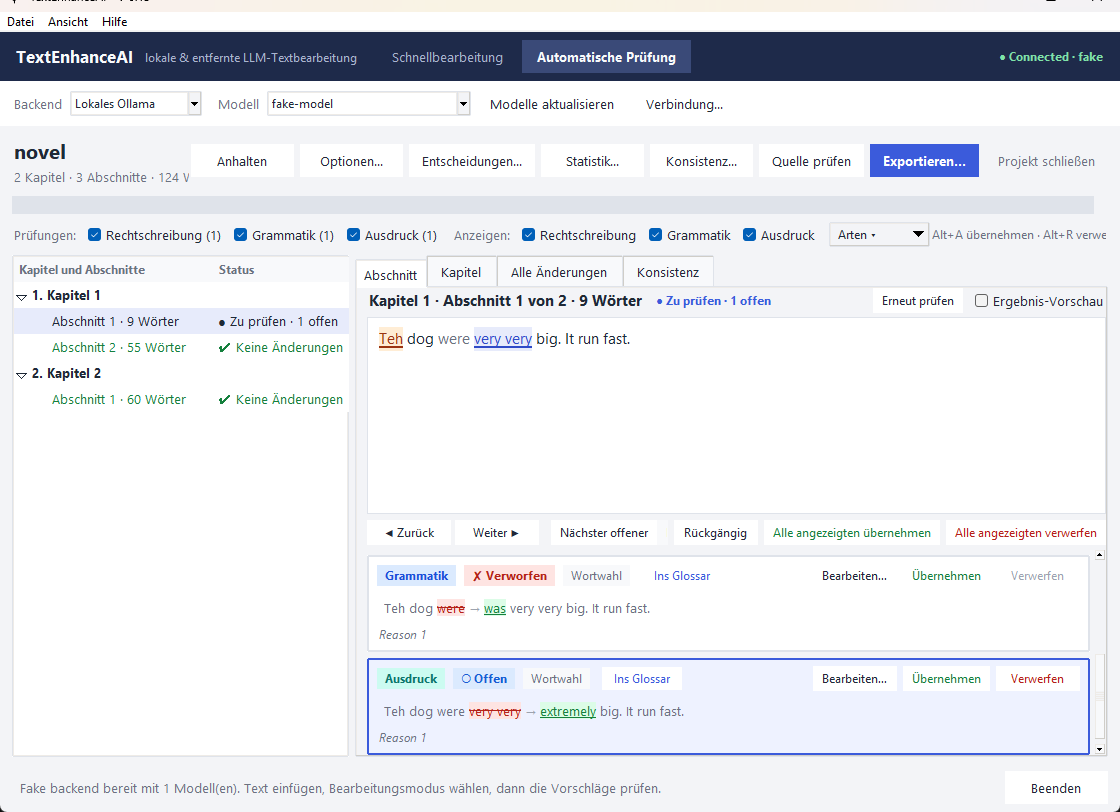
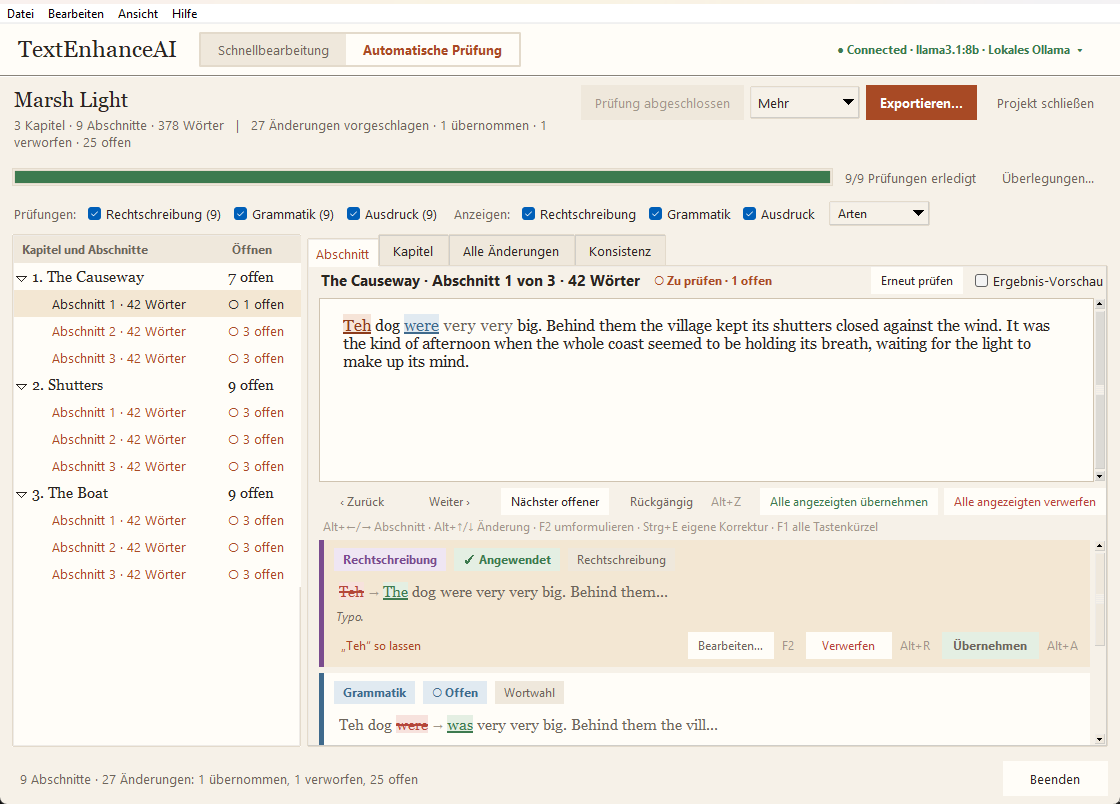
Update the screenshots and docs for the new look
New screenshots of the review dashboard, the quick-edit review and the
German dashboard; the README walkthroughs follow the renamed buttons and
menus (mode menu, More menu, Preferences, Keep as written, the toasts and
the undo/redo stack), and AGENTS.md notes the new ui modules, the serif
text rule, the glyph rule, toasts, row tooltips and the shortcut list.

diff --git a/README.md b/README.md
@@ -6,9 +6,13 @@ The application offers two complementary environments:
 1. **Quick Editor:** An interactive desktop editor for refining passages sentence-by-sentence across 11 editing modes with word-level diffing and scratchpad logging.
 2. **Automatic Manuscript Review:** A full-length book and manuscript proofreading workbench that splits entire manuscripts into chapters and segments, runs multi-pass AI evaluations in the background, detects chapter-spanning inconsistencies, generates deep manuscript analytics, and gives the author granular control over every proposed change.
 
-![TextEnhanceAI review screen](https://github.com/wenrolland/TextEnhanceAI/blob/main/TextEnhanceAI-v0.13.png)
+![TextEnhanceAI review screen](TextEnhanceAI-review.png)
 
-The same review screen with the German interface (`TEAI_LANG=de` or **Connection... → Language**):
+The quick editor shows one suggestion at a time as a single paragraph, removed words struck and added words underlined:
+
+![TextEnhanceAI quick edit](TextEnhanceAI-quick-edit.png)
+
+The same review screen with the German interface (`TEAI_LANG=de` or **Edit → Preferences → Language**):
 
 ![TextEnhanceAI review screen in German](TextEnhanceAI-de.png)
 
@@ -24,8 +28,8 @@ The same review screen with the German interface (`TEAI_LANG=de` or **Connection
   - *Three separate requests (more thorough):* Evaluates each check independently across the segment (~3 edit requests per segment). Automatically falls back to separate requests if structured JSON fails or cannot be anchored.
 - **Smart Explanation Pipeline:** Rule-based canned explanations handle trivial changes (punctuation, whitespace, capitalization, 1-letter typos) instantly without extra model calls. Remaining changes are batched across up to 6 segments per prompt to minimize token overhead.
 - **Author's Style Guide:** Standing instructions (e.g., *British spelling*, *keep dialect inside dialogue*, *never touch quotations*) are injected into every check and explanation prompt, taking precedence over default rules.
-- **Protected Glossary & Wildcard Stems:** Protect character names, invented vocabulary, and domain jargon (one per line, with trailing wildcard `*` e.g. `hyper*` to protect all inflections). Proposed changes touching protected terms are automatically suppressed before review. Change cards feature a one-click **Add to glossary** button.
-- **Model-Side Hallucination Guard:** Heuristic detection flags changes that look like invented content (excessive text growth, ungrounded vocabulary not present in the segment, or full rewrites during strict spelling/grammar checks). Flagged changes receive an amber *⚠ check this* warning badge with hover explanations, tree glyph indicators, and a one-click **Reject flagged** button.
+- **Protected Glossary & Wildcard Stems:** Protect character names, invented vocabulary, and domain jargon (one per line, with trailing wildcard `*` e.g. `hyper*` to protect all inflections). Proposed changes touching protected terms are automatically suppressed before review. Every change card has a **Keep “…” as written** link that rejects the change and protects the term from then on.
+- **Model-Side Hallucination Guard:** Heuristic detection flags changes that look like invented content (excessive text growth, ungrounded vocabulary not present in the segment, or full rewrites during strict spelling/grammar checks). Flagged changes receive an ochre *◆ check this* badge with hover explanations, a diamond in the chapter tree, and a one-click **Reject flagged** button.
 - **Multi-Tab Review Experience:**
   - **Segment View:** Highlights proposed changes with check-specific colors; presents card-by-card diffs, kind tags, model explanations, and quick decision buttons.
   - **Chapter Reading View:** Continuous full-chapter reading view with live inline annotations (green underline for applied changes, amber background for pending, strikethrough for rejected, amber wave for flagged). Clicking any marked span jumps straight to its card.
@@ -66,7 +70,7 @@ The same review screen with the German interface (`TEAI_LANG=de` or **Connection
 - **Zero Third-Party Cloud Dependencies:** Run completely offline using local models via Ollama or over an encrypted private tunnel to your own GPU server. No manuscript text is ever logged on intermediate relays.
 - **Remote GPU Support (Relay + vLLM):** Connect to a powerful remote GPU server (e.g. hosting a 27B+ parameter model) through an outbound-only reverse relay—no public ports or inbound firewall holes required.
 - **Prefix Caching Optimization:** Review prompts place manuscript text before instructions (`text_first=True`) so vLLM and caching-enabled backends maximize KV-cache reuse across checks of the same segment.
-- **Multi-Language UI (i18n):** The complete user interface is available in English and German (`locales/de.json`), following the system language or the choice in the Connection dialog; model prompts stay English and explanation language remains a per-project option.
+- **Multi-Language UI (i18n):** The complete user interface is available in English and German (`locales/de.json`), following the system language or the choice under **Edit → Preferences**; model prompts stay English and explanation language remains a per-project option.
 - **Accessibility:** Every state is shown as a glyph plus a word, never by colour alone (tree rows, change cards, the chapter view's optional `[+]`/`[~]`/`[−]` markers, the quick review's removed/added labels). The View menu (and `Ctrl+=` / `Ctrl+-` / `Ctrl+0`) scales every font from 80 % to 200 %, and **High contrast** switches to a black-on-white palette with thick borders and a yellow selection; both are remembered. Cards, links and dialogs are reachable with Tab; the selected card carries a visible focus border.
 - **Live Model Thinking:** **View → Model thinking...** (`Ctrl+Shift+T`, also the **Thinking...** button next to *Cancel* and in the review's progress row) opens a window that shows the reasoning a thinking model streams while it works — one entry per request (quick edit steps, every check of every segment, explanation batches, the consistency check), newest first, with its state (waiting / thinking / answering / done / failed / cancelled) and character counts. It works with vLLM's reasoning parser (`reasoning_content`), Ollama's `thinking` field (Ollama 0.9+) and models that write `<think>` blocks inline; the edited text never contains the reasoning. Nothing is written to disk.
 - **Persistent State:** Projects are saved in `<manuscript>.teai/project.json` after every decision, ensuring zero progress loss on application restart.
@@ -115,21 +119,21 @@ Switch to **Automatic review** in the top header to proofread a full book, paper
 
 ```
 ┌──────────────────────────────────────────────────────────────────────────────────┐
-│  [Editor]  [Automatic review]                         Backend: Local (Ollama) ▾  │
+│ TextEnhanceAI  [Quick edit | Automatic review]       ● Connected · llama3.1:8b ▾ │
 ├──────────────────────────────────────────────────────────────────────────────────┤
-│ Project: MyNovel.txt                                [Options...] [Consistency...]│
+│ MyNovel                             [Pause] [More ▾] [Export...] [Close project] │
 ├───────────────────────┬──────────────────────────────────────────────────────────┤
 │ Chapters & Segments   │ [Segment]  [Chapter]  [All changes]  [Consistency]       │
-│ ├─ Chapter 1 (✓)      │ ──────────────────────────────────────────────────────── │
-│ │  ├─ Segment 1 (✓)   │ Text with highlighted changes...                         │
-│ │  └─ Segment 2 (●)   │ ──────────────────────────────────────────────────────── │
-│ └─ Chapter 2 (○)      │ Change Cards: Before / After Diff + Model Explanation    │
-│                       │ [Accept (Alt+A)] [Reject (Alt+R)] [Edit (F2)]            │
+│ ├─ The Causeway  done │ ──────────────────────────────────────────────────────── │
+│ │  ├─ Segment 1 ● done│ Text with highlighted changes...                         │
+│ │  └─ Segment 2 ○ 3   │ ──────────────────────────────────────────────────────── │
+│ └─ Shutters    9 open │ Change cards: diff, reason, Keep as written              │
+│                       │              [Edit… F2]  [Reject Alt+R]  [Accept Alt+A]  │
 └───────────────────────┴──────────────────────────────────────────────────────────┘
 ```
 
 ### 1. Open a Manuscript
-Choose any `.txt` file. The start screen previews chapter detection:
+Choose any `.txt`, `.md`, `.docx` or `.odt` file. The start screen previews chapter detection; splitting, evaluation and the standing instructions sit behind **Advanced options**:
 - Recognizes Markdown headers (`#`, `##`), `Chapter N` / `Kapitel N` headings, numbered titles, ALL-CAPS titles, and scene dividers (`* * *`).
 - Texts lacking headings can be split evenly by size, or you can ask the model to generate a chapter outline based on content.
 
@@ -151,7 +155,7 @@ Press **Start review**. The evaluation runs in the background across configurabl
   - Press `Alt+A` to accept, `Alt+R` to reject, or `F2` to reword inline.
   - Select text and press `Ctrl+E` to add an author correction.
   - Use **Kinds ▾** to filter visible change kinds or bulk accept/reject by kind across the project.
-  - Use **Reject flagged ⚠** to discard suspicious additions caught by the hallucination guard.
+  - Use **Reject flagged ◆** (shown when a segment has flagged changes) to discard suspicious additions caught by the hallucination guard.
 - **Chapter Tab:**
   - Read through the full chapter with color-coded live annotations (green underline = applied, amber background = pending, strikethrough = rejected, amber highlight = flagged).
   - Click any highlighted passage to jump directly to its segment and change card.
@@ -161,14 +165,14 @@ Press **Start review**. The evaluation runs in the background across configurabl
 - **Undo (`Alt+Z`):** Revert any decision—single changes or bulk operations—in a single step. View the complete history via **Decisions...**.
 
 ### 5. Chapter-Spanning Consistency Check
-Once all segments are evaluated, open **Consistency...**:
+Once all segments are evaluated, open **More → Consistency check...**:
 - Scans the manuscript for inconsistent name spellings (`Nyxara`/`Nixara`), hyphenated compounds (`E-Mail`/`Email`), number styles (0–20 digits vs words), quotation marks, and POV/tense shifts.
 - Inspect model-triaged findings in the **Consistency** tab.
 - Click **Apply preferred everywhere** to replace all variants across the entire manuscript with a single click (fully undoable).
 
 ### 6. Analytics & Source Re-sync
-- **Statistics...:** Review per-chapter change densities, acceptance rates, and the 20 most frequent corrections. Click **Copy as Markdown** to export tables.
-- **Check source:** If you edited the source `.txt` file externally, re-sync to preserve existing decisions on unchanged segments and evaluate only updated text. Dropped segment changes are safely preserved in `resync-<timestamp>.md`.
+- **More → Statistics...:** Review per-chapter change densities, acceptance rates, and the 20 most frequent corrections. Click **Copy as Markdown** to export tables.
+- **More → Check the manuscript file...:** If you edited the manuscript file externally, re-sync to preserve existing decisions on unchanged segments and evaluate only updated text. Dropped segment changes are safely preserved in `resync-<timestamp>.md`.
 
 ### 7. Export
 Click **Export...** to produce:
@@ -180,14 +184,14 @@ Click **Export...** to produce:
 
 ## Quick Editor Workflow
 
-1. Paste or type text into the editor.
-2. Select an editing mode (e.g. *Grammar*, *Concise*, *Polish*, *Custom*) and your desired model.
-3. Click **Review changes** or press `Ctrl+Enter`.
-4. Review changes sentence-by-sentence with clear visual diffs:
-   - Accept or reject whole sentences, or expand **Review individual changes** to decide word by word.
-   - Use **Previous** and **Next** (`Alt+Left` / `Alt+Right`) to step through proposals.
-5. Click **Apply review** once all decisions are made.
-6. Use **Undo** if you want to restore the previous editor text.
+1. Paste, type or open a text (an empty editor tells you the three steps).
+2. Pick what the model should do from the mode menu (*Grammar*, *Concise*, *Polish*, your own presets and chains, ...); *Custom* and *Translate* take their instruction in a box right under the menu, with the last five instructions in a menu. Select a passage first to edit only that part.
+3. Click **Suggest edits** or press `Ctrl+Enter`.
+4. Review the suggestions one by one: one paragraph with removed words struck and added words underlined, the model's reasons underneath, and the individual changes as rows you can decide separately (`Alt+Up` / `Alt+Down` select them). The strip of bars in the header shows how far you are; **Side by side** brings back the two-pane view.
+   - Use **Previous** and **Next** (`Alt+Left` / `Alt+Right`) to step through the suggestions, `Alt+A` / `Alt+R` to decide.
+5. Click **Apply N decisions** once every suggestion is decided.
+6. **Undo applied review** and **Redo** (under the mode menu) step back and forth through up to twenty applied reviews; the editor's own `Ctrl+Z` treats each apply as one step.
+7. **Review the whole file...** hands the file to the automatic review.
 
 ---
 
@@ -203,7 +207,9 @@ Click **Export...** to produce:
 | `Ctrl+E` | Review Workflow | Add custom author correction for selected text |
 | `Ctrl+Shift+T` | Everywhere | Open the *Model thinking* window (live reasoning of the running requests) |
 | `Alt+Left` / `Alt+Right` | Quick Editor / Review | Navigate previous / next suggestion or segment |
-| `Alt+Up` / `Alt+Down` | Review Workflow | Select previous / next change card |
+| `Alt+Up` / `Alt+Down` | Quick Editor / Review | Select previous / next individual change / change card |
+| `F1` | Everywhere | Keyboard shortcuts dialog |
+| `Ctrl+,` | Everywhere | Preferences |
 
 ---
 
@@ -215,7 +221,7 @@ For maximum speed and quality, TextEnhanceAI can connect to an external GPU serv
 - **GPU Agent (`remote/gpu-agent`):** Docker Compose stack running [vLLM](https://github.com/vllm-project/vllm) and a lightweight tunneling agent that registers with the relay using an API key.
 - **Zero Text Logging:** Neither the relay nor the agent ever logs prompt text or output content.
 - **Fast Cancellation:** Clicking Cancel in the desktop UI aborts remote generation immediately, freeing GPU compute.
-- **Configuration:** In TextEnhanceAI, select **Connection...**, choose **Remote GPU (relay)**, enter your relay URL and client key, test the connection, and save.
+- **Configuration:** In TextEnhanceAI, open the connection pill in the header and choose **Connection settings...**, pick **Remote GPU (relay)**, enter your relay URL and client key, test the connection, and save.
 
 Complete deployment instructions and wire protocol documentation are in [remote/README.md](remote/README.md) and [remote/PROTOCOL.md](remote/PROTOCOL.md).
 
@@ -241,9 +247,12 @@ Settings are stored in `TextEnhanceAI-settings.json` (ignored by Git). Environme
   - `app.py`: Main application window and Quick Editor screen.
   - `review_panel.py`: Sentence and word-group review panel.
   - `workflow_screen.py`: Automatic manuscript review views, cards, tabs, and dialogs.
-  - `connection_dialog.py`: Backend and model selection dialog.
+  - `connection_dialog.py`: Backend and relay profile dialog.
+  - `preferences_dialog.py`: Language, text size, contrast, quick-edit and review defaults.
+  - `mode_dialog.py`: Custom presets and chains of modes.
+  - `dialogs.py`: Themed name prompt, the keyboard-shortcuts dialog and small helpers.
   - `thinking_window.py`: Live view of the reasoning every request streams (`StreamLog` model + window).
-  - `theme.py`: Design tokens, colors, custom widgets, and styling.
+  - `theme.py`: Palettes (normal and high contrast), the serif/sans/mono fonts, ttk styles, tooltips and toasts.
   - `i18n.py`: Internationalization helper.
 - `locales/`: UI localization dictionaries (`de.json`).
 - `remote/`: Docker Compose stacks for the public relay and GPU agent.

diff --git a/AGENTS.md b/AGENTS.md
@@ -4,7 +4,7 @@
 - Root files: `TextEnhanceAI.py` (main app), `README.md`, `LICENSE`, screenshots `TextEnhanceAI-*.png`.
 - Runtime artifacts: the settings file `TextEnhanceAI-settings.json` and the scratchpads `TextEnhanceAI-scratchpad_*.md` live in the per-user data directory (`core/paths.py`: `%APPDATA%\TextEnhanceAI`, `~/Library/Application Support/TextEnhanceAI`, `$XDG_CONFIG_HOME/TextEnhanceAI`). Set `TEAI_DATA_DIR=.` when running from a checkout to keep them next to the script as before; a settings file found next to the script is copied to the data directory once at start-up.
 - `packaging/` holds the PyInstaller spec, the icon source and `make_icon.py`; `.github/workflows/build.yml` runs the tests on every push and builds Windows/macOS archives for `v*` tags (see `packaging/README.md`). The version is `core/__init__.py: __version__`.
-- `core/` holds editing logic and model backends (`backend.py` contract, `ollama_service.py`, `remote_service.py`, `settings.py` with relay profiles, `secrets.py` for keys in the OS keyring via the optional `keyring` package), manuscript splitting (`chunking.py`), manuscript import/export for `.txt`/`.md`/`.docx`/`.odt` (`documents.py`, paragraph-level round trip; `python-docx` is optional), the automatic review model, runner and persistence (`workflow.py`) and the edit-kind heuristics (`change_kinds.py`); `ui/` holds Tkinter screens (`app.py`, `review_panel.py`, `connection_dialog.py`, `workflow_screen.py`, `thinking_window.py`) and the shared `theme.py`. Keep Tk out of `core/` so it stays testable.
+- `core/` holds editing logic and model backends (`backend.py` contract, `ollama_service.py`, `remote_service.py`, `settings.py` with relay profiles, `secrets.py` for keys in the OS keyring via the optional `keyring` package), manuscript splitting (`chunking.py`), manuscript import/export for `.txt`/`.md`/`.docx`/`.odt` (`documents.py`, paragraph-level round trip; `python-docx` is optional), the automatic review model, runner and persistence (`workflow.py`) and the edit-kind heuristics (`change_kinds.py`); `ui/` holds Tkinter screens (`app.py`, `review_panel.py`, `connection_dialog.py`, `preferences_dialog.py`, `mode_dialog.py`, `workflow_screen.py`, `thinking_window.py`), the small shared dialogs and helpers (`dialogs.py`: `ask_name`, `ShortcutsDialog`, `reveal`, `center_on`) and the shared `theme.py`. Keep Tk out of `core/` so it stays testable.
 - Streamed reasoning: every backend request accepts `on_stream(kind, text)` next to `on_usage` (`core/backend.py`; `STREAM_THINKING` from vLLM `reasoning_content`, Ollama `thinking` or an inline `<think>` block split live by `ThinkingSplitter`, `STREAM_ANSWER` for the answer). Producers announce each request on the event queue as `("stream", key, "started", info)`, forward the pieces and close it with `("stream", key, "finished", outcome)` (`core/workflow.py: start_stream/finish_stream`; keys `("review", chapter, segment, check)`, `("explain", n)`, `("consistency", n)`, `("quick", request_id, step)`, `("outline",)`). `ui/app.py` feeds them into `ui/thinking_window.py: StreamLog`, which the *Model thinking* window renders; `EditorApp.describe_request` turns an `info` dict into the translated label. New request types need a scope there, a stream key and a test on the events. Every fake backend in `tests/` must accept `on_stream=None`.
 - `locales/<code>.json` holds UI translations (flat English-source → translation maps).
 - `scripts/` holds developer tools that are not part of the app (`record_responses.py` records model answers for the recorded-response tests, `extract_strings.py` lists untranslated UI strings).
@@ -23,9 +23,9 @@
 - Functions/variables: `snake_case`; classes: `PascalCase`; constants: `UPPER_CASE`.
 - Docstrings: short summary + key args/returns where useful.
 - UI labeling: keep button text concise; tooltips explain behavior.
-- UI theming (`ui/theme.py`): take colours from the `PALETTE` / `CHECK_COLORS` / `STATUS_COLORS` dicts at use time (never copy them into module constants; both the normal and the high-contrast palette fill the same keys) and fonts from `font(size, weight, slant)` / `named_font(role)`, which return Tk named fonts that `apply_scale` resizes together (`ui_scale` setting, Ctrl+= / Ctrl+- / Ctrl+0, View menu). A widget that configures plain Tk colours itself (tk.Text tags, tree tags) registers a restyle callback with `bind_restyle(widget, callback)` so a palette switch reaches it. State is shown as glyph plus word (`STATUS_GLYPHS`, `DECISION_GLYPHS`), never colour alone.
+- UI theming (`ui/theme.py`): take colours from the `PALETTE` / `CHECK_COLORS` / `STATUS_COLORS` dicts at use time (never copy them into module constants; both the normal and the high-contrast palette fill the same keys) and fonts from `font(size, weight, slant, mono=, serif=)` / `named_font(role)`, which return Tk named fonts that `apply_scale` resizes together (`ui_scale` setting, Ctrl+= / Ctrl+- / Ctrl+0, View menu, Preferences). The author's own words (editor, diff, segments, cards) are set in the serif face via `style_text(widget, serif=True)`; chrome stays in the UI sans. A widget that configures plain Tk colours itself (tk.Text tags, tree tags) registers a restyle callback with `bind_restyle(widget, callback)` so a palette switch reaches it. State is shown as glyph plus word (`STATUS_GLYPHS`, `DECISION_GLYPHS`; geometric shapes only, since Windows draws ⏳ ⚠ ✔ ✖ as colour emoji that ignore the label colour), never colour alone. The serif has no arrow glyph: give `→` its own tag with the UI font. Routine outcomes go through `EditorApp.notify()` (a `Toast` in the lower right corner, optional one-button action); the status bar describes state. Long Treeview status text goes into a `RowTooltip`, the column shows the short form.
 - Prompts: extend the `PROMPTS` dict; avoid duplicating strings across the UI.
-- UI strings: wrap user-visible text in `tr()` from `ui/i18n.py` with named placeholders (`tr("Connecting to {url} ...", url=url)`), never positional `{0}`. Label tables defined at module level are marked with `N_("...")` and passed through `tr()` where they are rendered (module-level `tr()` would run before the language is set). English constants that live in `core/` and reach the screen (`CHECK_LABELS`, `CHANGE_KIND_LABELS`, `EVALUATION_LABELS`, `BACKEND_LABELS`, `FALLBACK_EXPLANATIONS`, ...) stay English in core and are translated at the UI boundary (`tr(CHECK_LABELS[check])`; `ui.i18n.core_source_strings` lists them for extraction). Identifiers that the logic compares (`PROMPTS` keys, `chapter_mode`, explanation language keys) keep a display-name mapping (`ui/app.py: MODE_LABELS`, `ui/workflow_screen.py: LANGUAGE_LABELS`). Numbers shown to the user go through `ui.i18n.format_number`. Backend error messages stay English inside exceptions; the UI prefixes them with a translated sentence. `python scripts/extract_strings.py de` lists strings missing from `locales/de.json` (`--update` adds empty keys) and `tests/test_i18n.py` fails when a source string has no German entry or the placeholders differ, so every new string needs its translation in the same change. The language comes from `AppSettings.ui_language` (`auto|en|de`, env `TEAI_LANG`) and is applied once at start-up, so changes need a restart.
+- UI strings: wrap user-visible text in `tr()` from `ui/i18n.py` with named placeholders (`tr("Connecting to {url} ...", url=url)`), never positional `{0}`. Label tables defined at module level are marked with `N_("...")` and passed through `tr()` where they are rendered (module-level `tr()` would run before the language is set). English constants that live in `core/` and reach the screen (`CHECK_LABELS`, `CHANGE_KIND_LABELS`, `EVALUATION_LABELS`, `BACKEND_LABELS`, `FALLBACK_EXPLANATIONS`, ...) stay English in core and are translated at the UI boundary (`tr(CHECK_LABELS[check])`; `ui.i18n.core_source_strings` lists them for extraction). Identifiers that the logic compares (`PROMPTS` keys, `chapter_mode`, explanation language keys) keep a display-name mapping (`ui/app.py: MODE_LABELS`, `ui/workflow_screen.py: LANGUAGE_LABELS`). Numbers shown to the user go through `ui.i18n.format_number`. Backend error messages stay English inside exceptions; the UI prefixes them with a translated sentence. `python scripts/extract_strings.py de` lists strings missing from `locales/de.json` (`--update` adds empty keys) and `tests/test_i18n.py` fails when a source string has no German entry or the placeholders differ, so every new string needs its translation in the same change. The language comes from `AppSettings.ui_language` (`auto|en|de`, env `TEAI_LANG`, Edit > Preferences) and is applied once at start-up, so changes need a restart. `tests/test_i18n.py` also fails when `locales/de.json` keeps an entry whose source string is gone, so drop translations together with their strings. Keyboard shortcuts are listed in `ui/dialogs.py: SHORTCUT_GROUPS` (Help > Keyboard shortcuts, F1); a new binding in `EditorApp._bind_shortcuts` goes there too.
 
 ## Testing Guidelines
 - Run `pytest -q` from the repository root; it collects `tests/` (desktop), `remote/relay/tests`, `remote/gpu-agent/tests`, and `remote/tests` (end-to-end with a fake vLLM).
